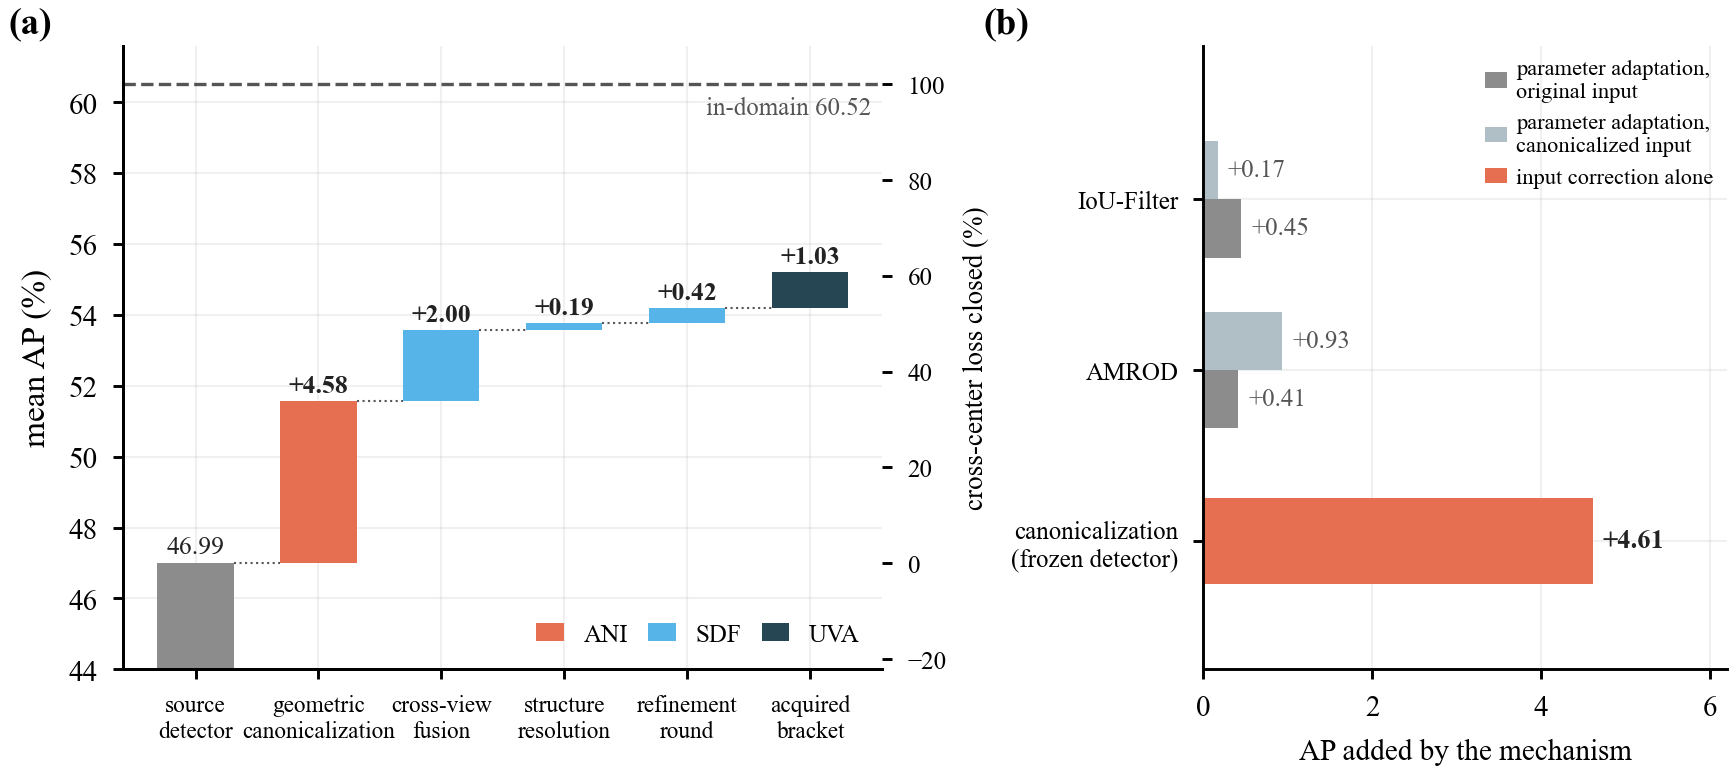
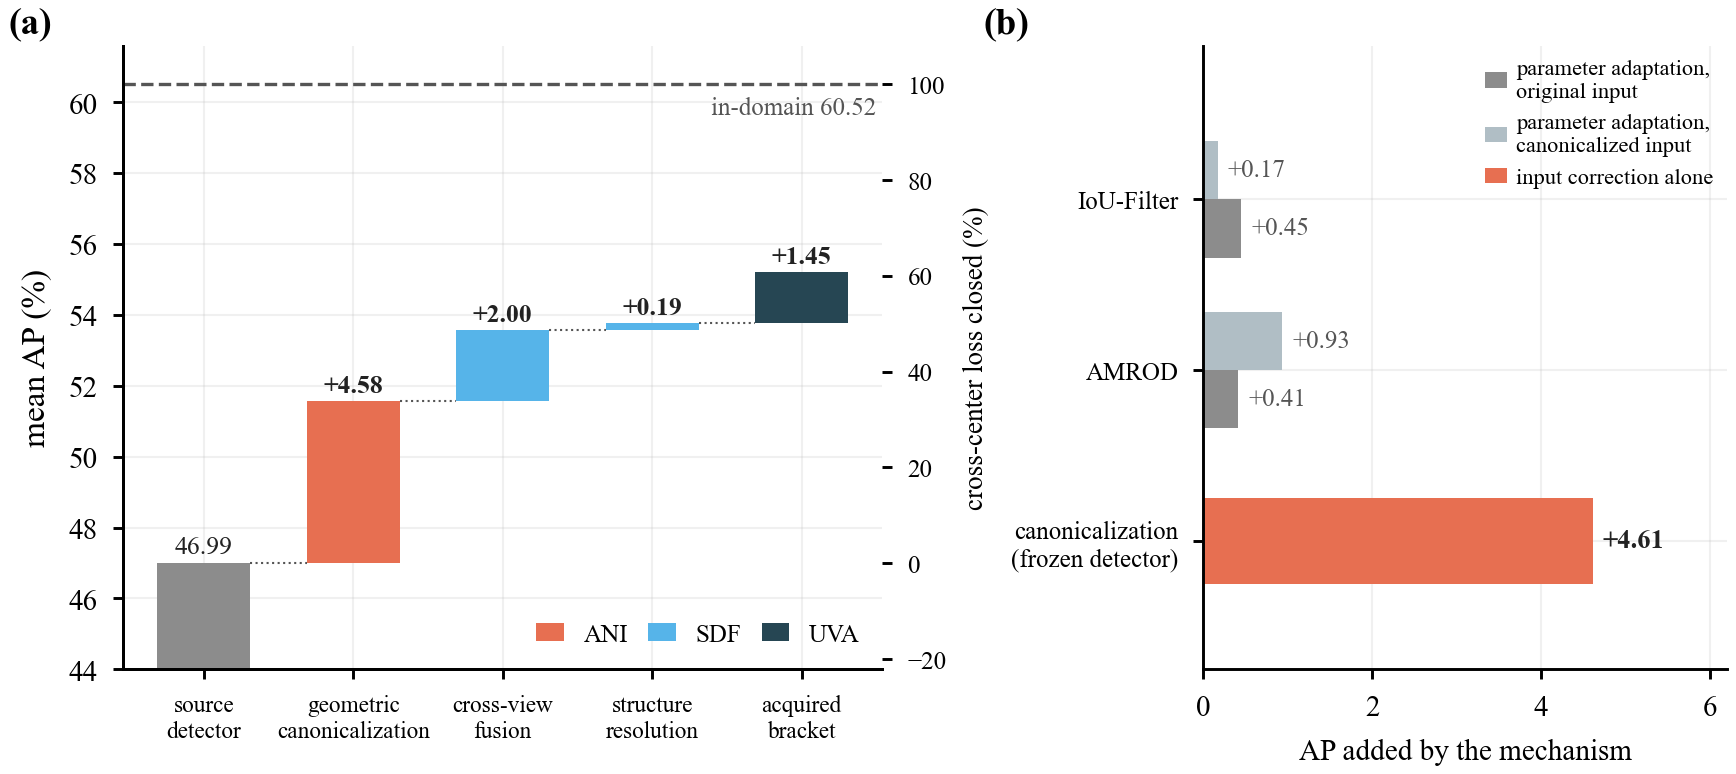
Report TAC-7 consistently and correct the setup steps
The ablation table and the accuracy-cost figure now report the seven-view
configuration with the quadrature bracket, which is what the paper calls
TAC-7; they previously showed the fixed +-15% bracket under that name. The
mechanism waterfall no longer stacks the optional second round on the way
to TAC-7, which runs a single round. The hyper-parameter panel marks the
outlier density default at 0.2, the value the code uses. The equal-compute
table prints 3.3 views for the two-round variant, the bootstrap table sets
negative values in math mode, and derived shares quoted in the text are
written to numbers_reviewer.json.

README: the eval runners evaluate rather than train, the RetinaNet schedule
is given as command-line overrides, the reference scale is calibrated in a
separate sweep rather than by anat_prior.py, and the variant names of TAC-3,
TAC-7 and the two-round variant are listed.

diff --git a/paper_figures/gen_tables_reviewer.py b/paper_figures/gen_tables_reviewer.py
@@ -102,7 +102,8 @@ for blk in (3, 7, 18):
 for i, (lab, k, ref, tk, blk) in enumerate(_BL):
     r = R[k]; v = r["views"] if r["views"] else 18; sp, mem = tcell(tk)
     ap50 = f"\\textbf{{{r['ap50']:.2f}}}" if _bb[i][1] else f"{r['ap50']:.2f}"
-    L.append(f"{lab} & {v:.0f} & {fm(r, _bb[i][0])} & {ap50} & {'--' if ref is None else fd(r, R[ref])} & {sp} & {mem} \\\\")
+    vs = f"{v:.0f}" if abs(v - round(v)) < 1e-9 else f"{v:.1f}"
+    L.append(f"{lab} & {vs} & {fm(r, _bb[i][0])} & {ap50} & {'--' if ref is None else fd(r, R[ref])} & {sp} & {mem} \\\\")
     NUM[f"blind::{k}"] = {"mean": r["mean"], "std": r["std"], "views": v, "d_ref": None if ref is None else list(paired(r, R[ref])), "timing": TIM.get(tk)}
 write("tab_blind.tex", L)
 
@@ -123,6 +124,15 @@ if UV:
     _ub = argbest(_uv)
     L = [("\\midrule" if row is None else urow(row[0], row[1], row[2], i in _ub)) for i, row in enumerate(_UR)]
     write("tab_uva.tex", L)
+    # gated runs: share of images bracketed (each bracketed image costs four more passes than TAC-3) and the
+    # share of the gain of full quadrature acquisition (TAC-7) that a gated run keeps
+    _get = (lambda k: UV[k] if k in UV else R[k])
+    _g7 = _get("u7_k17")["mean"] - _get("tac")["mean"]
+    for _k in ("ua_t08", "ua_t12"):
+        _r = _get(_k)
+        NUM[f"uva::gated::{_k}"] = {"bracket_frac_pct": round(100 * (_r["views"] - 3) / 4, 1),
+                                    "share_of_tac7_gain_pct": round(100 * (_r["mean"] - _get("tac")["mean"]) / _g7, 1),
+                                    "share_of_extra_passes_pct": round(100 * (_r["views"] - 3) / 4, 1)}
 # derived timing numbers quoted in Sec. 5.9 (idle-GPU run, c1->c2 seed 42): s/img to 2 decimals, GB to 1 decimal, speed ratios
 if TIM:
     for k, t in TIM.items():
@@ -156,7 +166,7 @@ if LD:
 
 # ------------------------------------------------------------------ D. in-domain
 L = []
-_IN = [("source model", "in_source"), ("TAC-3 (ours)", "in_tac"), ("TAC-7 (ours)", "in_tac_v7")]
+_IN = [("source model", "in_source"), ("TAC-3 (ours)", "in_tac"), ("TAC-7, fixed bracket (ours)", "in_tac_v7")]
 _ib = argbest([R[k]["mean"] for _, k in _IN]); _i5 = argbest([R[k]["ap50"] for _, k in _IN])
 for i, (lab, k) in enumerate(_IN):
     r = R[k]; ap50 = f"\\textbf{{{r['ap50']:.2f}}}" if i in _i5 else f"{r['ap50']:.2f}"
@@ -175,7 +185,7 @@ for d, b in BOOT.items():
     _p7 = (lambda ref: ("tac7q-" + ref) if ("tac7q-" + ref) in b["bootstrap"] else ("tac7-" + ref))
     for key, lab in [(_p7("source"), "TAC-7 vs.\\ source"), (_p7("heatmap18"), "TAC-7 vs.\\ HM-18"), (_p7("wbf18_ar"), "TAC-7 vs.\\ WBF-18+RS"), (_p7("cotta"), "TAC-7 vs.\\ CoTTA-det"), ("tac3_2r-wbf18_ar", "TAC-3 (2r) vs.\\ WBF-18+RS"), ("tac3_2r-cotta", "TAC-3 (2r) vs.\\ CoTTA-det")]:
         v = b["bootstrap"][key]; x, y = key.split("-"); dd = b["dedup_ap"]
-        L.append(f"{lab} & {v['point']:+.2f} & [{v['ci95'][0]:+.2f}, {v['ci95'][1]:+.2f}] & {dd[x]['dedup_mean'] - dd[y]['dedup_mean']:+.2f} & {('<0.001' if v['p_le_0'] < 0.001 else format(v['p_le_0'], '.3f'))} \\\\")
+        L.append(f"{lab} & ${v['point']:+.2f}$ & $[{v['ci95'][0]:+.2f}, {v['ci95'][1]:+.2f}]$ & ${dd[x]['dedup_mean'] - dd[y]['dedup_mean']:+.2f}$ & {('<0.001' if v['p_le_0'] < 0.001 else format(v['p_le_0'], '.3f'))} \\\\")
         NUM[f"boot::{d}::{key}"] = {**v, "dedup_diff": dd[x]["dedup_mean"] - dd[y]["dedup_mean"], "per_dir": None}
     NUM[f"dedup::{d}"] = b["dedup_ap"]; NUM[f"clusters::{d}"] = cl
 write("tab_bootstrap.tex", L)

diff --git a/paper_figures/tables/tab_bootstrap.tex b/paper_figures/tables/tab_bootstrap.tex
@@ -1,21 +1,21 @@
 \multicolumn{5}{l}{\textit{Heart-4CC (545 clusters / 576 images)}}\\
-TAC-7 vs.\ source & +8.22 & [+7.74, +8.68] & +8.26 & <0.001 \\
-TAC-7 vs.\ HM-18 & +3.68 & [+3.28, +4.03] & +3.66 & <0.001 \\
-TAC-7 vs.\ WBF-18+RS & +1.58 & [+1.20, +1.90] & +1.59 & <0.001 \\
-TAC-7 vs.\ CoTTA-det & +2.33 & [+1.99, +2.65] & +2.33 & <0.001 \\
-TAC-3 (2r) vs.\ WBF-18+RS & +0.55 & [+0.16, +0.84] & +0.56 & 0.004 \\
-TAC-3 (2r) vs.\ CoTTA-det & +1.30 & [+0.96, +1.61] & +1.30 & <0.001 \\
+TAC-7 vs.\ source & $+8.22$ & $[+7.74, +8.68]$ & $+8.26$ & <0.001 \\
+TAC-7 vs.\ HM-18 & $+3.68$ & $[+3.28, +4.03]$ & $+3.66$ & <0.001 \\
+TAC-7 vs.\ WBF-18+RS & $+1.58$ & $[+1.20, +1.90]$ & $+1.59$ & <0.001 \\
+TAC-7 vs.\ CoTTA-det & $+2.33$ & $[+1.99, +2.65]$ & $+2.33$ & <0.001 \\
+TAC-3 (2r) vs.\ WBF-18+RS & $+0.55$ & $[+0.16, +0.84]$ & $+0.56$ & 0.004 \\
+TAC-3 (2r) vs.\ CoTTA-det & $+1.30$ & $[+0.96, +1.61]$ & $+1.30$ & <0.001 \\
 \multicolumn{5}{l}{\textit{Abdomen (811 clusters / 813 images)}}\\
-TAC-7 vs.\ source & +5.78 & [+5.36, +6.09] & +5.78 & <0.001 \\
-TAC-7 vs.\ HM-18 & +1.36 & [+1.07, +1.63] & +1.36 & <0.001 \\
-TAC-7 vs.\ WBF-18+RS & +0.68 & [+0.42, +0.94] & +0.67 & <0.001 \\
-TAC-7 vs.\ CoTTA-det & +0.51 & [+0.29, +0.79] & +0.51 & 0.001 \\
-TAC-3 (2r) vs.\ WBF-18+RS & -0.39 & [-0.67, -0.09] & -0.40 & 0.997 \\
-TAC-3 (2r) vs.\ CoTTA-det & -0.56 & [-0.80, -0.25] & -0.56 & 1.000 \\
+TAC-7 vs.\ source & $+5.78$ & $[+5.36, +6.09]$ & $+5.78$ & <0.001 \\
+TAC-7 vs.\ HM-18 & $+1.36$ & $[+1.07, +1.63]$ & $+1.36$ & <0.001 \\
+TAC-7 vs.\ WBF-18+RS & $+0.68$ & $[+0.42, +0.94]$ & $+0.67$ & <0.001 \\
+TAC-7 vs.\ CoTTA-det & $+0.51$ & $[+0.29, +0.79]$ & $+0.51$ & 0.001 \\
+TAC-3 (2r) vs.\ WBF-18+RS & $-0.39$ & $[-0.67, -0.09]$ & $-0.40$ & 0.997 \\
+TAC-3 (2r) vs.\ CoTTA-det & $-0.56$ & $[-0.80, -0.25]$ & $-0.56$ & 1.000 \\
 \multicolumn{5}{l}{\textit{Spine (917 clusters / 920 images)}}\\
-TAC-7 vs.\ source & +3.71 & [+3.43, +3.97] & +3.70 & <0.001 \\
-TAC-7 vs.\ HM-18 & +2.08 & [+1.74, +2.28] & +2.07 & <0.001 \\
-TAC-7 vs.\ WBF-18+RS & +1.02 & [+0.74, +1.22] & +1.01 & <0.001 \\
-TAC-7 vs.\ CoTTA-det & +0.97 & [+0.71, +1.18] & +0.95 & <0.001 \\
-TAC-3 (2r) vs.\ WBF-18+RS & +0.18 & [-0.11, +0.42] & +0.17 & 0.138 \\
-TAC-3 (2r) vs.\ CoTTA-det & +0.12 & [-0.13, +0.38] & +0.11 & 0.189 \\
+TAC-7 vs.\ source & $+3.71$ & $[+3.43, +3.97]$ & $+3.70$ & <0.001 \\
+TAC-7 vs.\ HM-18 & $+2.08$ & $[+1.74, +2.28]$ & $+2.07$ & <0.001 \\
+TAC-7 vs.\ WBF-18+RS & $+1.02$ & $[+0.74, +1.22]$ & $+1.01$ & <0.001 \\
+TAC-7 vs.\ CoTTA-det & $+0.97$ & $[+0.71, +1.18]$ & $+0.95$ & <0.001 \\
+TAC-3 (2r) vs.\ WBF-18+RS & $+0.18$ & $[-0.11, +0.42]$ & $+0.17$ & 0.138 \\
+TAC-3 (2r) vs.\ CoTTA-det & $+0.12$ & $[-0.13, +0.38]$ & $+0.11$ & 0.189 \\

diff --git a/paper_figures/gen_tables.py b/paper_figures/gen_tables.py
@@ -197,7 +197,7 @@ for name, T, hdr in [("rt", RT, ["c1$\\to$c2", "c1$\\to$c3", "c2$\\to$c1", "c2$\
 # (a) components removed from TAC-3, on the three settings where they were run;
 # (b) a second round and four further views, on all four settings. No cell is missing in either panel.
 ABL_A = [("TAC-light", "TAC-3 (full)"), ("TAC w/o AR", "\\quad w/o structure-aware re-scoring"), ("TAC w/o s0 calib", "\\quad w/o calibrated $s_0$ (default 800)")]
-ABL_B = [("TAC-light", "TAC-3 (full)"), ("TAC (2 rounds)", "\\quad + second round"), ("TAC 7 views", "TAC-7 (+4 views at $\\pm$15\\%)")]
+ABL_B = [("TAC-light", "TAC-3 (full)"), ("TAC (2 rounds)", "\\quad + second round"), (QUAD7, "TAC-7 (+4 views)")]
 
 
 def abl_panel(rows, tables):
@@ -227,7 +227,7 @@ for key, lab in [("TAC canonical view only (no fusion)", "canonical view only (n
     r = F[key]; L.append(f"{lab} & 3 & {fmt(r['mean'], r['std'])} & {r['ap50']:.2f} & {'--' if 'WBF' in key else delta(r, F['TAC (WBF, 3 views)'])} \\\\")
     NUM[f"fusion::{key}"] = [r["mean"], r["std"], *paired(r, F["TAC (WBF, 3 views)"])]
 L.append("\\midrule")
-for key, lab in [("TAC 2 views (no flip)", "pass 1 + canonical view (no flip)"), ("TAC (WBF, 3 views)", "TAC-3"), ("TAC 7 views (+-15% scales)", "\\quad fixed bracket $\\pm15\\%$ (control)"), ("TAC 11 views (+-10/20/25% scales)", "TAC-11 ($\\pm$10/20/25\\%)"), ("18-view WBF + AR", "18-view WBF + re-scoring"), ("18-view heatmap (senior)", "18-view heat-map fusion")]:
+for key, lab in [("TAC 2 views (no flip)", "pass 1 + canonical view (no flip)"), ("TAC (WBF, 3 views)", "TAC-3"), ("TAC 7 views (+-15% scales)", "\\quad fixed bracket $\\pm15\\%$ (control)"), ("TAC 11 views (+-10/20/25% scales)", "TAC-11 ($-$20/$-$10/$+$10/$+$25\\%)"), ("18-view WBF + AR", "18-view WBF + re-scoring"), ("18-view heatmap (senior)", "18-view heat-map fusion")]:
     r = F[key]; v = r["views"] if r["views"] else 18
     L.append(f"{lab} & {v:.0f} & {fmt(r['mean'], r['std'])} & {r['ap50']:.2f} & {'--' if key == 'TAC (WBF, 3 views)' else delta(r, F['TAC (WBF, 3 views)'])} \\\\")
     NUM[f"views::{key}"] = [r["mean"], r["std"], r["ap50"], *paired(r, F["TAC (WBF, 3 views)"])]

diff --git a/paper_figures/gen_fig11_layers.py b/paper_figures/gen_fig11_layers.py
@@ -1,6 +1,6 @@
 """Fig. 11 - what each mechanism of the architecture contributes (Heart-4CC, Faster R-CNN, test, three seeds).
 (a) Waterfall from the source detector to TAC-7: geometric canonicalization, cross-view fusion, structure-aware
-    resolution, the refinement round and the acquired bracket; the right axis reads the same quantity as the fraction
+    resolution and the acquired bracket (TAC-7 runs a single round, so the optional second round is not on this path); the right axis reads the same quantity as the fraction
     of the cross-center loss (in-domain minus cross-domain source AP) that has been closed.
 (b) The asymmetry between correcting the input and adapting the parameters: what two parameter-adaptive methods add
     on the original input, what canonicalization alone adds, and what the same methods still add once the input is
@@ -27,7 +27,6 @@ steps = [("source\ndetector", src, None),
          ("geometric\ncanonicalization", ap("fusion::TAC canonical view only (no fusion)"), "ANI"),
          ("cross-view\nfusion", ap("abl_heart::TAC w/o AR"), "SDF"),
          ("structure\nresolution", ap("abl_heart::TAC-light"), "SDF"),
-         ("refinement\nround", ap("abl_heart::TAC (2 rounds)"), "SDF"),
          ("acquired\nbracket", ap("main_TAC 7 views (quadrature)"), "UVA")]
 fig, axes = plt.subplots(1, 2, figsize=(6.9, 2.7), gridspec_kw={"width_ratios": [1.45, 1.0], "wspace": 0.5})
 

diff --git a/paper_figures/gen_fig5_fusion.py b/paper_figures/gen_fig5_fusion.py
@@ -48,7 +48,7 @@ HP = [("$\\sigma_u$", [("0.3", "hp_su0.3"), ("0.5", "hp_su0.5"), ("1", "tac"), (
       ("$\\gamma$", [("0", "hp_gam0"), ("0.3", "tac"), ("0.6", "hp_gam0.6"), ("1", "hp_gam1")], "0.3"),
       ("$\\lambda$", [("0.25", "hp_lam0.25"), ("0.5", "tac"), ("1", "hp_lam1"), ("2", "hp_lam2")], "0.5"),
       ("IRLS it.", [("1", "hp_irls1"), ("3", "tac"), ("6", "hp_irls6")], "3"),
-      ("$\\rho_{\\mathrm{out}}$", [("0", "hp_od0"), ("0.05", "hp_od0.05"), ("0.1", "tac"), ("0.5", "hp_od0.5"), ("1", "hp_od1")], "0.1"),
+      ("$\\rho_{\\mathrm{out}}$", [("0", "hp_od0"), ("0.05", "hp_od0.05"), ("0.2", "tac"), ("0.5", "hp_od0.5"), ("1", "hp_od1")], "0.2"),
       ("$\\tau_{\\min}$", [("0.1", "hp_ms0.1"), ("0.3", "tac"), ("0.5", "hp_ms0.5"), ("0.7", "hp_ms0.7")], "0.3"),
       ("$\\sigma_o$", [("0.05", "hp_so0.05"), ("0.1", "tac"), ("0.2", "hp_so0.2"), ("0.4", "hp_so0.4")], "0.1")]
 sub = gs[2].subgridspec(2, 4, wspace=0.45, hspace=0.75)
@@ -64,5 +64,5 @@ for i, (name, opts, dflt) in enumerate(HP):
         ax.set_yticklabels([])
     if i == 0:
         panel_label(ax, "(c)", x=-0.75, y=1.5)
-fig.text(0.735, -0.06, "hyper-parameter value (val, seed 42; dashed = default, 54.14 AP)", ha="center", fontsize=6.5, color=C["ink2"])
+fig.text(0.735, -0.06, f"hyper-parameter value (val, seed 42; dashed = default, {default:.2f} AP)", ha="center", fontsize=6.5, color=C["ink2"])
 save(fig, "fig5_fusion")

diff --git a/paper_figures/tables/tab_ablation_b.tex b/paper_figures/tables/tab_ablation_b.tex
@@ -1,3 +1,3 @@
 TAC-3 (full) & 53.76\,$\pm$\,0.06 & -- & 50.09\,$\pm$\,0.09 & -- & 68.94\,$\pm$\,0.34 & -- & 57.54\,$\pm$\,0.23 & -- \\
 \quad + second round & 54.18\,$\pm$\,0.06 & $+0.42$\,$\pm$\,0.02$^{*}$ & 50.94\,$\pm$\,0.10 & $+0.84$\,$\pm$\,0.05$^{*}$ & 68.96\,$\pm$\,0.35 & $+0.02$\,$\pm$\,0.02 & 57.54\,$\pm$\,0.23 & $+0.00$\,$\pm$\,0.01 \\
-TAC-7 (+4 views at $\pm$15\%) & \textbf{54.99\,$\pm$\,0.12} & $+1.23$\,$\pm$\,0.20$^{*}$ & \textbf{52.09\,$\pm$\,0.10} & $+2.00$\,$\pm$\,0.17$^{*}$ & \textbf{69.98\,$\pm$\,0.34} & $+1.04$\,$\pm$\,0.35$^{*}$ & \textbf{58.20\,$\pm$\,0.24} & $+0.67$\,$\pm$\,0.04$^{*}$ \\
+TAC-7 (+4 views) & \textbf{55.21\,$\pm$\,0.15} & $+1.45$\,$\pm$\,0.30$^{*}$ & \textbf{52.34\,$\pm$\,0.03} & $+2.25$\,$\pm$\,0.22$^{*}$ & \textbf{70.02\,$\pm$\,0.34} & $+1.08$\,$\pm$\,0.26$^{*}$ & \textbf{58.38\,$\pm$\,0.25} & $+0.85$\,$\pm$\,0.17$^{*}$ \\

diff --git a/paper_figures/tables/tab_blind.tex b/paper_figures/tables/tab_blind.tex
@@ -1,7 +1,7 @@
 blind: 3 scales \{600, 800, 1000\}, WBF & 3 & 50.22\,$\pm$\,0.19 & 84.64 & $-3.54$\,$\pm$\,0.40$^{*}$ &  &  \\
 blind: 3 scales, WBF + re-scoring & 3 & 50.55\,$\pm$\,0.21 & 85.36 & $-3.21$\,$\pm$\,0.45$^{*}$ & 0.22 & 1.9 \\
 TAC-3 (ours) & 3 & 53.76\,$\pm$\,0.06 & 88.31 & -- & 0.22 & 3.2 \\
-TAC-3, 2 rounds (ours) & 3 & \textbf{54.18\,$\pm$\,0.06} & \textbf{88.97} & -- & 0.23 & 3.7 \\
+TAC-3, 2 rounds (ours) & 3.3 & \textbf{54.18\,$\pm$\,0.06} & \textbf{88.97} & -- & 0.23 & 3.7 \\
 blind: 3 scales $\times$ flip, WBF + re-scoring & 6 & 50.60\,$\pm$\,0.11 & 84.81 & $-4.61$\,$\pm$\,0.25$^{*}$ &  &  \\
 blind: 7 scales \{500--1200\}, WBF & 7 & 51.36\,$\pm$\,0.18 & 85.89 & $-3.86$\,$\pm$\,0.31$^{*}$ &  &  \\
 blind: 7 scales, WBF + re-scoring & 7 & 51.76\,$\pm$\,0.20 & 86.76 & $-3.45$\,$\pm$\,0.36$^{*}$ & 0.51 & 2.6 \\

diff --git a/paper_figures/gen_fig4_cost.py b/paper_figures/gen_fig4_cost.py
@@ -16,7 +16,7 @@ SPEC = [
     ("Senior heatmap fusion (18 views)", "18-view heat-map fusion", 18, "h", C["gold"], False),
     ("18-view WBF", "18-view WBF", 18, "p", C["teal"], False), ("18-view WBF + AR", "18-view WBF + re-scoring", 18, "H", C["teal"], False),
     ("CoTTA-det", "CoTTA-det (18 views + training)", 18, "d", C["blue"], True),
-    ("TAC-light", "TAC-3 (ours)", 3.0, "o", OURS, False), ("TAC (2 rounds)", "TAC-3, 2 rounds (ours)", None, "o", OURS, False), ("TAC 7 views", "TAC-7 (ours)", 7.0, "*", OURS, False),
+    ("TAC-light", "TAC-3 (ours)", 3.0, "o", OURS, False), ("TAC (2 rounds)", "TAC-3, 2 rounds (ours)", None, "o", OURS, False), ("TAC 7 views (quadrature)", "TAC-7 (ours)", 7.0, "*", OURS, False),
 ]
 fig, axes = plt.subplots(1, 4, figsize=(6.9, 2.6), gridspec_kw={"wspace": 0.3})
 seen = {}

diff --git a/paper_figures/gen_gap_numbers.py b/paper_figures/gen_gap_numbers.py
@@ -30,7 +30,9 @@ closes(R["chain::tac_1v"]["mean"], "tac_factor_single_view")
 closes(R["chain::fac_valscale_1v"]["mean"], "best_fixed_scale_single_view")
 closes(R["chain::fac_global_1v"]["mean"], "stream_level_factor_single_view")
 closes(R["blind::tac"]["mean"], "tac3")
-closes(R["blind::tac_v7"]["mean"], "tac7_fixed_bracket")
+# the fixed +-15% bracket (control row of the view-count ablation); the reviewer generator no longer
+# exports it as blind::tac_v7, since the equal-compute table now carries the quadrature bracket
+closes(N["views::TAC 7 views (+-15% scales)"][0], "tac7_fixed_bracket")
 # the configuration reported as TAC-7: the surrogate-guided quadrature bracket
 closes(N["main_TAC 7 views (quadrature)"]["mean"], "tac7")
 # best evaluated parameter-adaptive baseline on the frozen-BN heart models

diff --git a/paper_figures/tables/tab_fusion.tex b/paper_figures/tables/tab_fusion.tex
@@ -6,6 +6,6 @@ weighted boxes fusion (default) & 3 & 53.76\,$\pm$\,0.06 & 88.31 & -- \\
 pass 1 + canonical view (no flip) & 2 & 52.35\,$\pm$\,0.13 & 87.12 & $-1.41$\,$\pm$\,0.22$^{*}$ \\
 TAC-3 & 3 & 53.76\,$\pm$\,0.06 & 88.31 & -- \\
 \quad fixed bracket $\pm15\%$ (control) & 7 & 54.99\,$\pm$\,0.12 & 89.72 & $+1.23$\,$\pm$\,0.20$^{*}$ \\
-TAC-11 ($\pm$10/20/25\%) & 11 & 55.34\,$\pm$\,0.12 & 90.12 & $+1.57$\,$\pm$\,0.19$^{*}$ \\
+TAC-11 ($-$20/$-$10/$+$10/$+$25\%) & 11 & 55.34\,$\pm$\,0.12 & 90.12 & $+1.57$\,$\pm$\,0.19$^{*}$ \\
 18-view WBF + re-scoring & 18 & 53.63\,$\pm$\,0.16 & 88.72 & $-0.13$\,$\pm$\,0.32 \\
 18-view heat-map fusion & 18 & 51.53\,$\pm$\,0.19 & 86.12 & $-2.23$\,$\pm$\,0.40$^{*}$ \\

diff --git a/paper_figures/tables/tab_indomain.tex b/paper_figures/tables/tab_indomain.tex
@@ -1,3 +1,3 @@
 source model & 60.52\,$\pm$\,0.20 & 92.89 & -- \\
 TAC-3 (ours) & 63.41\,$\pm$\,0.19 & 94.77 & $+2.89$\,$\pm$\,0.67$^{*}$ \\
-TAC-7 (ours) & \textbf{63.99\,$\pm$\,0.14} & \textbf{95.35} & $+3.47$\,$\pm$\,0.54$^{*}$ \\
+TAC-7, fixed bracket (ours) & \textbf{63.99\,$\pm$\,0.14} & \textbf{95.35} & $+3.47$\,$\pm$\,0.54$^{*}$ \\

diff --git a/README.md b/README.md
@@ -95,15 +95,22 @@ directory holding `datasets/`, `output/` and `results/`; it defaults to the curr
 
 ## Reproducing the experiments
 
-1. **Train the source detectors.** `runners/eval_fz_seeds.sh` and `runners/eval_rt_seeds.sh` train and
-   evaluate the frozen-BatchNorm Faster R-CNN and RetinaNet source models, for seeds 42, 43 and 44.
+1. **Source detectors.** The frozen-BatchNorm Faster R-CNN models use batch 8, 10k iterations and
+   learning rate 0.01. The RetinaNet models use `configs/od_r50fpn_retinanet_FZ.yaml` with the schedule
+   of the paper passed on the command line: `SOLVER.IMS_PER_BATCH 4 SOLVER.BASE_LR 0.005
+   SOLVER.MAX_ITER 20000 SOLVER.STEPS "(14000, 18000)"`. `runners/eval_fz_seeds.sh` and
+   `runners/eval_rt_seeds.sh` evaluate the trained models for seeds 42, 43 and 44.
 2. **Estimate the source priors.** `tools/anat_prior.py` writes one JSON per source domain, holding the
-   per-structure log-size Gaussians, the pairwise layout Gaussians and the calibrated reference scale.
+   per-structure log-size Gaussians and the pairwise layout Gaussians. The reference scale is
+   calibrated afterwards: the seed-42 source model is evaluated on its own validation split at short
+   edges of 300 to 1200 px (500 to 1200 px for RetinaNet, abdomen and spine), and the best scale is
+   stored in the same JSON as `indomain_best_scale`. Without that key the runner uses 800 px.
 3. **Run TAC and the ablations.** `runners/run_canon.sh` dispatches every configuration reported in the
-   paper by name, for example
+   paper by name: `tac` is TAC-3, `u7_k17` is TAC-7 (the quadrature bracket), `tacr2` is TAC-3 with
+   two rounds, and `tac_v7` is the fixed-bracket control. For example
 
    ```bash
-   VARIANTS="tac tac_v7 tacr2" SPLIT=test SEED=42 GPU=0 bash runners/run_canon.sh
+   VARIANTS="tac u7_k17 tacr2" SPLIT=test SEED=42 GPU=0 bash runners/run_canon.sh
    ```
 
    `runners/launch_utest.sh` queues the uncertainty-aware variants over seeds and directions.
